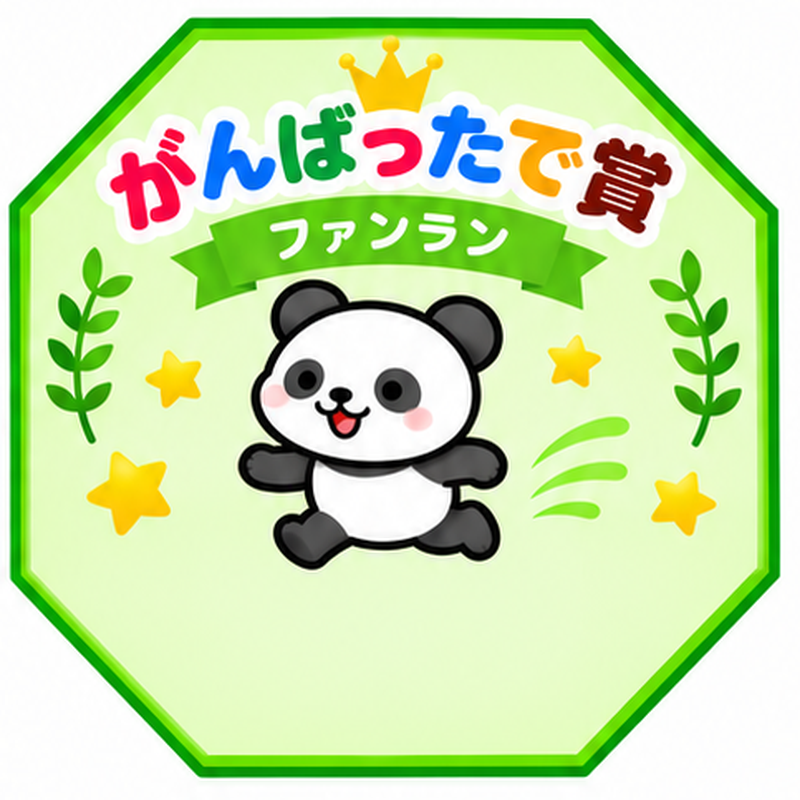
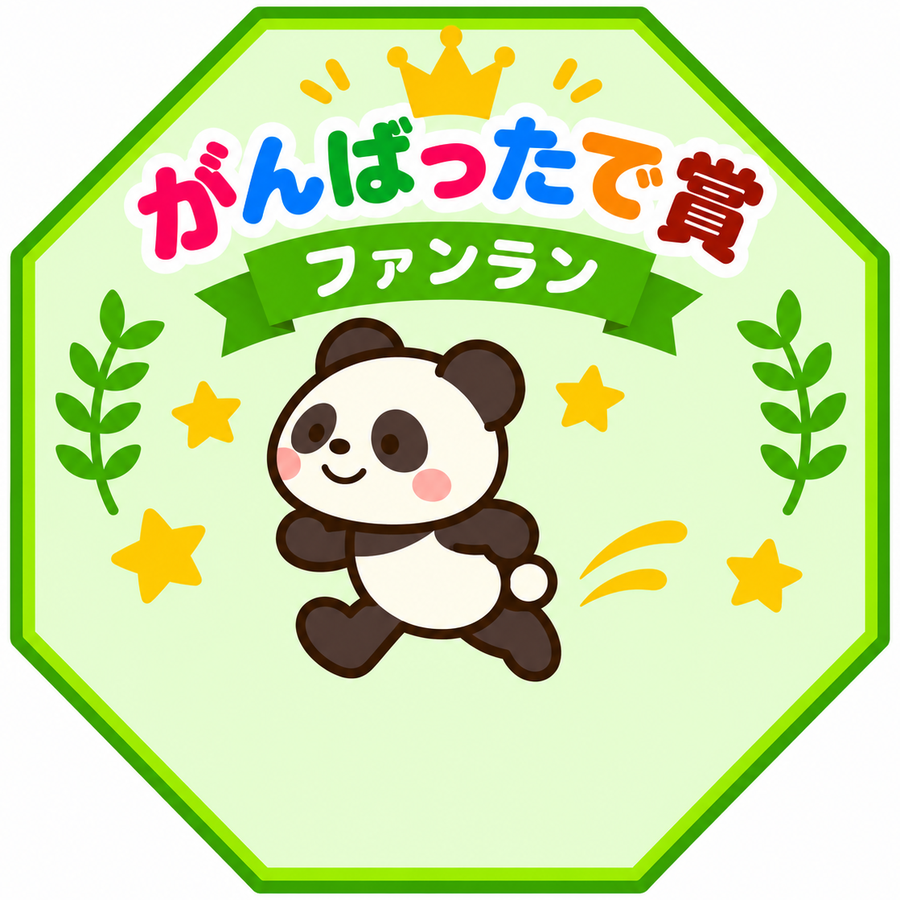
Add files via upload

diff --git a/app.js b/app.js
@@ -721,13 +721,13 @@ html,body{margin:0;padding:0;background:#eef2f5;font-family:"Yu Gothic","Hiragin
 .toolbar button{border:0;border-radius:8px;padding:8px 18px;font-weight:800}
 .medal-sheet{width:210mm;height:297mm;background:#fff;margin:10px auto;padding:12mm 0 10mm;display:flex;flex-direction:column;gap:3mm;page-break-after:always;box-shadow:0 5px 22px #0002;overflow:hidden}
 .medal-sheet:last-child{page-break-after:auto}
-.medal-row{width:210mm;height:65mm;display:grid;grid-template-columns:105mm 105mm;align-items:center}
-.medal-half{width:105mm;height:65mm;display:flex;align-items:center;justify-content:center;overflow:visible}
-.medal-front,.medal-back{position:relative;width:65mm;height:65mm;flex:0 0 auto}
+.medal-row{width:210mm;height:66mm;display:grid;grid-template-columns:105mm 105mm;align-items:center}
+.medal-half{width:105mm;height:66mm;display:flex;align-items:center;justify-content:center;overflow:visible}
+.medal-front,.medal-back{position:relative;width:64mm;height:64mm;flex:0 0 auto}
 .medal-front{display:flex;align-items:center;justify-content:center}
-.medal-front img{display:block;width:65mm;height:65mm;object-fit:contain}
+.medal-front img{display:block;width:64mm;height:64mm;object-fit:contain}
 .medal-front-cleanup{display:none}
-.medal-back{clip-path:polygon(21.5% 0,78.5% 0,100% 21.5%,100% 78.5%,78.5% 100%,21.5% 100%,0 78.5%,0 21.5%);background:var(--medal-accent);display:flex;align-items:center;justify-content:center}
+.medal-back{clip-path:polygon(28% 0,72% 0,100% 28%,100% 72%,72% 100%,28% 100%,0 72%,0 28%);background:var(--medal-accent);display:flex;align-items:center;justify-content:center}
 .medal-back-inner{width:calc(100% - 2.2mm);height:calc(100% - 2.2mm);clip-path:inherit;background:linear-gradient(160deg,#fffdf6 0%,var(--medal-soft) 100%);display:flex;flex-direction:column;align-items:center;justify-content:center;padding:7mm 5.5mm;text-align:center;color:#173f65}
 .medal-back-name{width:100%;font-size:5.6mm;font-weight:900;line-height:1.15;white-space:nowrap;overflow:hidden;text-overflow:ellipsis;margin-bottom:3.2mm}
 .medal-back-name.blank{height:7.5mm;border-bottom:.4mm solid var(--medal-accent);color:transparent}

diff --git a/README.md b/README.md
@@ -1,4 +1,4 @@
-v1.0.21
+v1.0.22
 
 - ファンランメダルを1.2倍サイズに拡大（A4 1ページ6枚配置に変更）
 

diff --git a/V1_RELEASE_NOTES.md b/V1_RELEASE_NOTES.md
@@ -1,4 +1,4 @@
-v1.0.21
+v1.0.22
 
 - ファンランメダルを1.2倍サイズに拡大（A4 1ページ6枚配置に変更）
 
